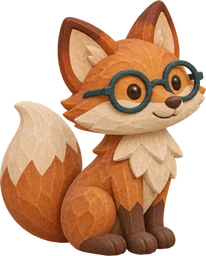
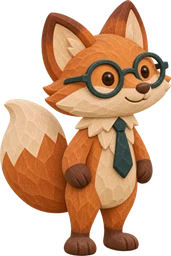
Make Island Office employees walk on two feet

diff --git a/style.css b/style.css
@@ -1,12 +1,66 @@
 *{box-sizing:border-box}body{margin:0;background:#fcf8ef;color:#23392f;font:16px/1.6 system-ui,sans-serif}header{height:69px;border-bottom:1px solid #e8e0d0;display:flex;justify-content:space-between;align-items:center;padding:0 max(5%,calc((100% - 1240px)/2))}.brand{font:700 22px Georgia,serif;color:inherit;text-decoration:none;white-space:nowrap}.brand span{color:#cb7449;margin-right:7px}.tag,.note,.mode,small,footer{color:#5e6d60}main{max-width:1320px;margin:auto;padding:30px 40px}.intro{display:flex;align-items:end;justify-content:space-between;gap:14px;margin-bottom:22px}.eyebrow{font-size:11px;letter-spacing:.22em;font-weight:800;color:#995329;margin:0}h1{font-size:clamp(32px,5vw,56px);line-height:1.15;letter-spacing:.02em;margin:6px 0}p{margin:8px 0}button{font:inherit;border:1px solid #d6dcce;border-radius:12px;background:#fffdf6;color:inherit;padding:10px 16px;cursor:pointer}button:hover{filter:brightness(.96)}button:focus-visible,a:focus-visible,input:focus-visible{outline:3px solid #bd6942;outline-offset:3px}.primary{background:#2e5947;color:white;border-color:#2e5947;white-space:nowrap}.primary span{margin-left:10px}.layout{display:grid;grid-template-columns:minmax(0,1fr) 260px;gap:18px;align-items:start}.scene{position:relative;overflow:hidden;border-radius:24px;background:#142a2f;aspect-ratio:3/2}.scene > img{display:block;width:100%;height:100%;object-fit:cover}aside{background:#fffdf6;border:1px solid #ebe2d3;border-radius:20px;padding:16px}h2{margin:0 0 12px;font-size:20px}.staff{display:flex;width:100%;align-items:center;text-align:left;gap:10px;margin:8px 0;padding:9px}.avatar{display:grid;place-items:center;border-radius:12px;width:45px;height:45px;font-size:23px}.green{background:#e1ebd6}.peach{background:#f5dfce}.staff small{display:block}.arrow{margin-left:auto}.note{margin:16px 2px 0;font-size:13px}.note span{color:#a6633d}footer{font-size:13px;margin-top:18px}dialog{width:min(520px,calc(100% - 24px));max-height:90dvh;border:1px solid #e0d8c9;border-radius:24px;background:#fffaf1;color:inherit;padding:24px;box-shadow:0 15px 70px #293d3755}dialog::backdrop{background:#172b22aa}.close{float:right}.close button{padding:0 10px;font-size:22px}.actions{display:flex;gap:8px;flex-wrap:wrap}label{display:block;margin-top:14px;font-weight:700}input{width:100%;font:inherit;padding:8px;border:1px solid #c8cdbc;border-radius:9px;background:white;color:inherit}.mode{font-size:13px;margin:12px 0}#result section{background:#e9efdf;border-radius:12px;margin-top:12px;padding:12px}#result h3{margin:0;font-size:16px}#result p{white-space:pre-line}button:disabled{opacity:.65;cursor:wait}@media(max-width:760px){main{padding:22px 14px}.layout{grid-template-columns:1fr}.intro{align-items:start}.intro p{font-size:13px}.intro .primary{font-size:13px;padding:8px}}
 
 .actor{position:absolute;left:var(--x);top:var(--y);width:9%;min-width:44px;height:12%;min-height:44px;transform:translate(-50%,-82%);display:grid;place-items:end center;border:0;background:none;padding:0;z-index:2;touch-action:manipulation}
-.actor:hover{filter:none;z-index:3}.actor .sprite{width:clamp(23px,4vw,43px);height:clamp(26px,4.4vw,49px);object-fit:contain;object-position:bottom;pointer-events:none;filter:drop-shadow(1px 2px 1px #19261d62);transform:scaleX(var(--facing,1))}
-.actor.walking .sprite{animation:step .28s infinite alternate ease-in-out}@keyframes step{to{transform:translateY(-3px) rotate(5deg) scaleX(var(--facing,1))}}
+.actor:hover{filter:none;z-index:3}
+.actor .sprite {
+  --sprite-height: clamp(26px, 4.4vw, 49px);
+  display: inline-grid;
+  height: var(--sprite-height);
+  pointer-events: none;
+  filter: drop-shadow(1px 2px 1px #19261d62);
+  transform: scaleX(var(--facing, 1));
+}
+.sprite img {
+  grid-area: 1 / 1;
+  display: block;
+  height: var(--sprite-height);
+  width: auto;
+}
+.sprite-leg-near, .sprite-leg-far { visibility: hidden; }
+
+/* The lower part of each portrait has two feet. Keep the tail with the body. */
+#owl { --leg-top: 85%; --leg-left: 17%; --leg-split: 49%; --leg-right: 82%; }
+#deer { --leg-top: 85%; --leg-left: 19%; --leg-split: 51%; --leg-right: 81%; }
+#claude-fox { --leg-top: 88%; --leg-left: 33%; --leg-split: 58%; --leg-right: 86%; }
+#claude-otter { --leg-top: 89%; --leg-left: 37%; --leg-split: 66%; --leg-right: 94%; }
+
+@media (prefers-reduced-motion: no-preference) {
+  .actor.walking .sprite {
+    animation: walking-bob .42s ease-in-out infinite;
+  }
+  .actor.walking .sprite-body {
+    clip-path: polygon(
+      0 0, 100% 0, 100% 100%, var(--leg-right) 100%,
+      var(--leg-right) calc(var(--leg-top) + 3%), var(--leg-left) calc(var(--leg-top) + 3%),
+      var(--leg-left) 100%, 0 100%
+    );
+  }
+  .actor.walking .sprite-leg-near, .actor.walking .sprite-leg-far {
+    visibility: visible;
+    transform-origin: center var(--leg-top);
+    animation: footstep .42s ease-in-out infinite;
+  }
+  .sprite-leg-near {
+    clip-path: inset(var(--leg-top) calc(100% - var(--leg-split)) 0 var(--leg-left));
+  }
+  .sprite-leg-far {
+    clip-path: inset(var(--leg-top) calc(100% - var(--leg-right)) 0 var(--leg-split));
+  }
+  .actor.walking .sprite-leg-far { animation-delay: -.21s; }
+}
+@keyframes walking-bob {
+  0%, 50%, 100% { transform: scaleX(var(--facing, 1)); }
+  25%, 75% { transform: translateY(-1px) scaleX(var(--facing, 1)); }
+}
+@keyframes footstep {
+  0%   { transform: translate(2px, 0); }
+  50%  { transform: translate(-2px, 0); }
+  75%  { transform: translateY(-2px); }
+  100% { transform: translate(2px, 0); }
+}
 .nameplate{position:absolute;bottom:96%;white-space:nowrap;background:#fffaf0;color:#253b32;border-radius:9px;padding:4px 9px;font-size:12px;opacity:0;visibility:hidden;pointer-events:none;box-shadow:0 2px 8px #172b2255}
 .actor.revealed .nameplate{opacity:1;visibility:visible}
 .scene-controls{border-top:1px solid #ebe2d3;margin-top:16px;padding-top:6px;font-size:13px}.scene-controls label{display:flex;gap:7px;align-items:center;margin:7px 0;font-weight:500}.scene-controls input{width:auto;accent-color:#2e5947}.scene-controls button{margin-top:5px;width:100%}.scene-controls p{min-height:2.8em;color:#5e6d60}.actor[aria-pressed=true]{outline:1px dashed #edfbeb88;outline-offset:-5px}
-@media(prefers-reduced-motion:reduce){.actor.walking .sprite{animation:none}}
 .actor[data-activity]::after{content:attr(data-activity);position:absolute;bottom:75%;left:75%;background:#fff6df;border-radius:10px;padding:1px 5px;font-size:12px;pointer-events:none}.actor:hover::after,.actor.revealed::after{display:none}
 
 .actor.seated .sprite{transform-origin:center 90%;transform:scale(var(--facing,1),.84)}.handoff-document{position:absolute;left:50%;top:76%;transform:translate(-50%,-50%);z-index:4;pointer-events:none;font-size:clamp(14px,2.5vw,24px);filter:drop-shadow(0 2px 2px #24322270)}

diff --git a/movement.js b/movement.js
@@ -7,6 +7,18 @@ const pause = ms => new Promise(resolve => setTimeout(resolve, ms));
 
 function employee(id, route) {
   const button = document.getElementById(id);
+  const portrait = button.querySelector('.sprite');
+  const sprite = document.createElement('span');
+  sprite.className = 'sprite';
+  sprite.setAttribute('aria-hidden', 'true');
+  portrait.replaceWith(sprite);
+  portrait.className = 'sprite-body';
+  sprite.append(portrait);
+  for (const className of ['sprite-leg-near', 'sprite-leg-far']) {
+    const leg = portrait.cloneNode();
+    leg.className = className;
+    sprite.append(leg);
+  }
   return { button, route, index: 0 };
 }
 // Waypoints follow the open aisles around the outside of the sofa.
